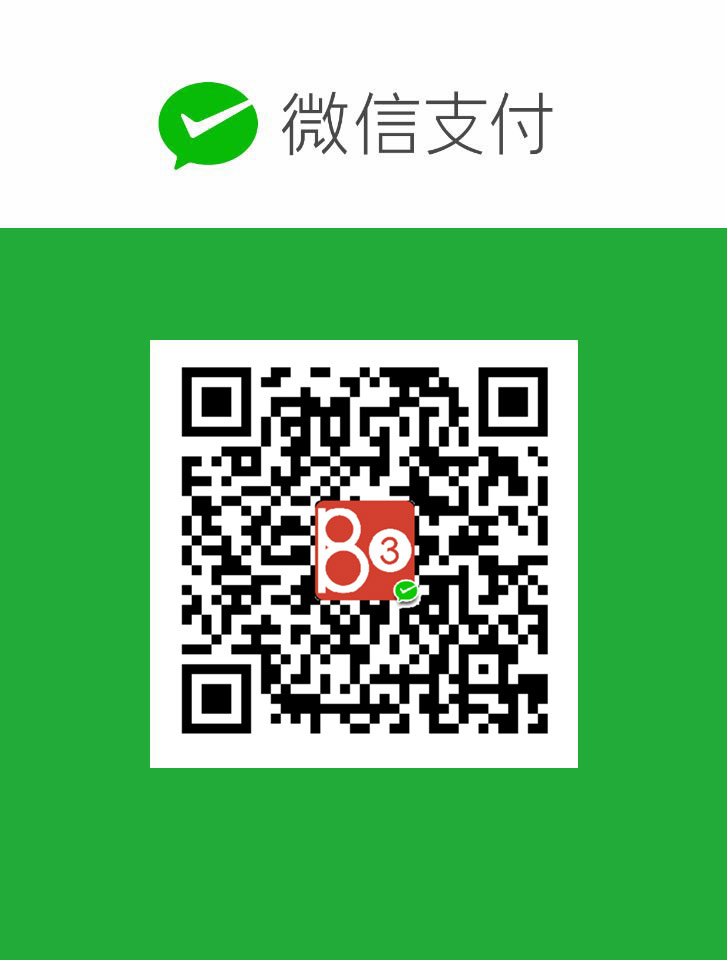
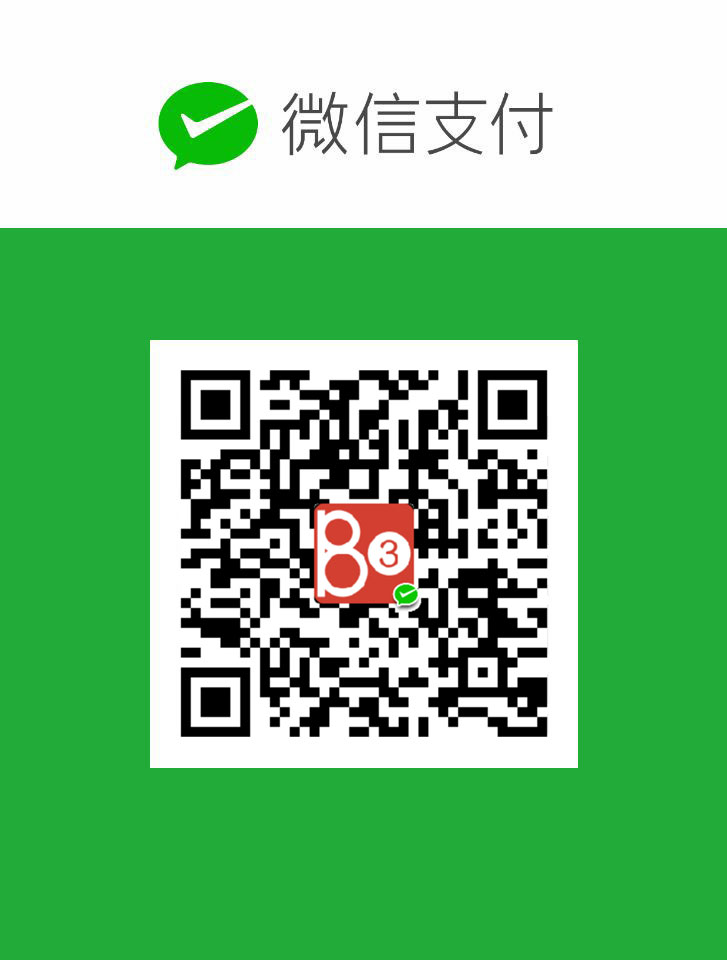
:memo: wechat money

Changed region(s): [[0.2421, 0.375, 0.7565, 0.7812]]

diff --git a/src/main/webapp/donate.html b/src/main/webapp/donate.html
@@ -73,7 +73,7 @@
[1 lines of base64/hex data omitted]
         </div>
         <img class="donate-img" src="//static.b3log.org/images/alipay-donate.jpg">
-        <img class="donate-img" src="//static.b3log.org/images/wechat-donate.jpg">
+        <img class="donate-img" src="//static.b3log.org/images/wechat-donate.jpg?v">
     </div>
 </div>
 </div>
